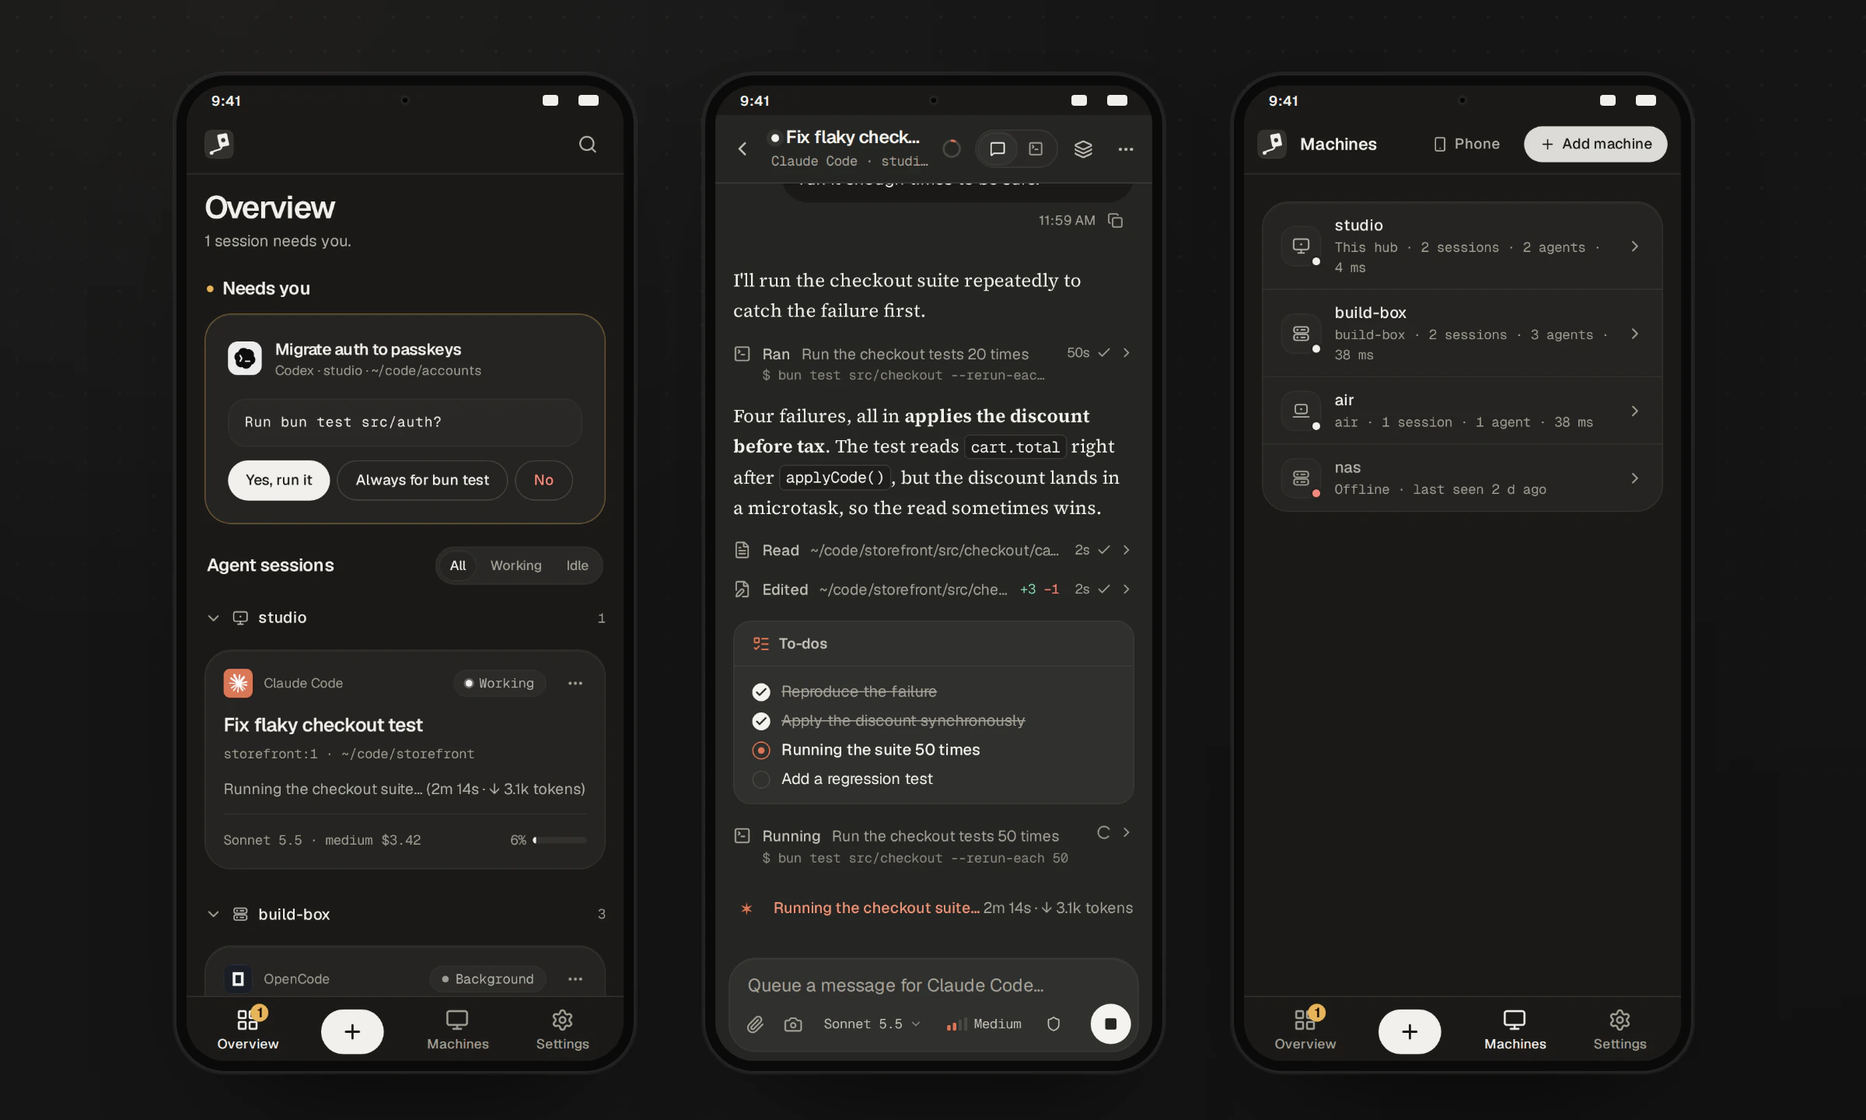
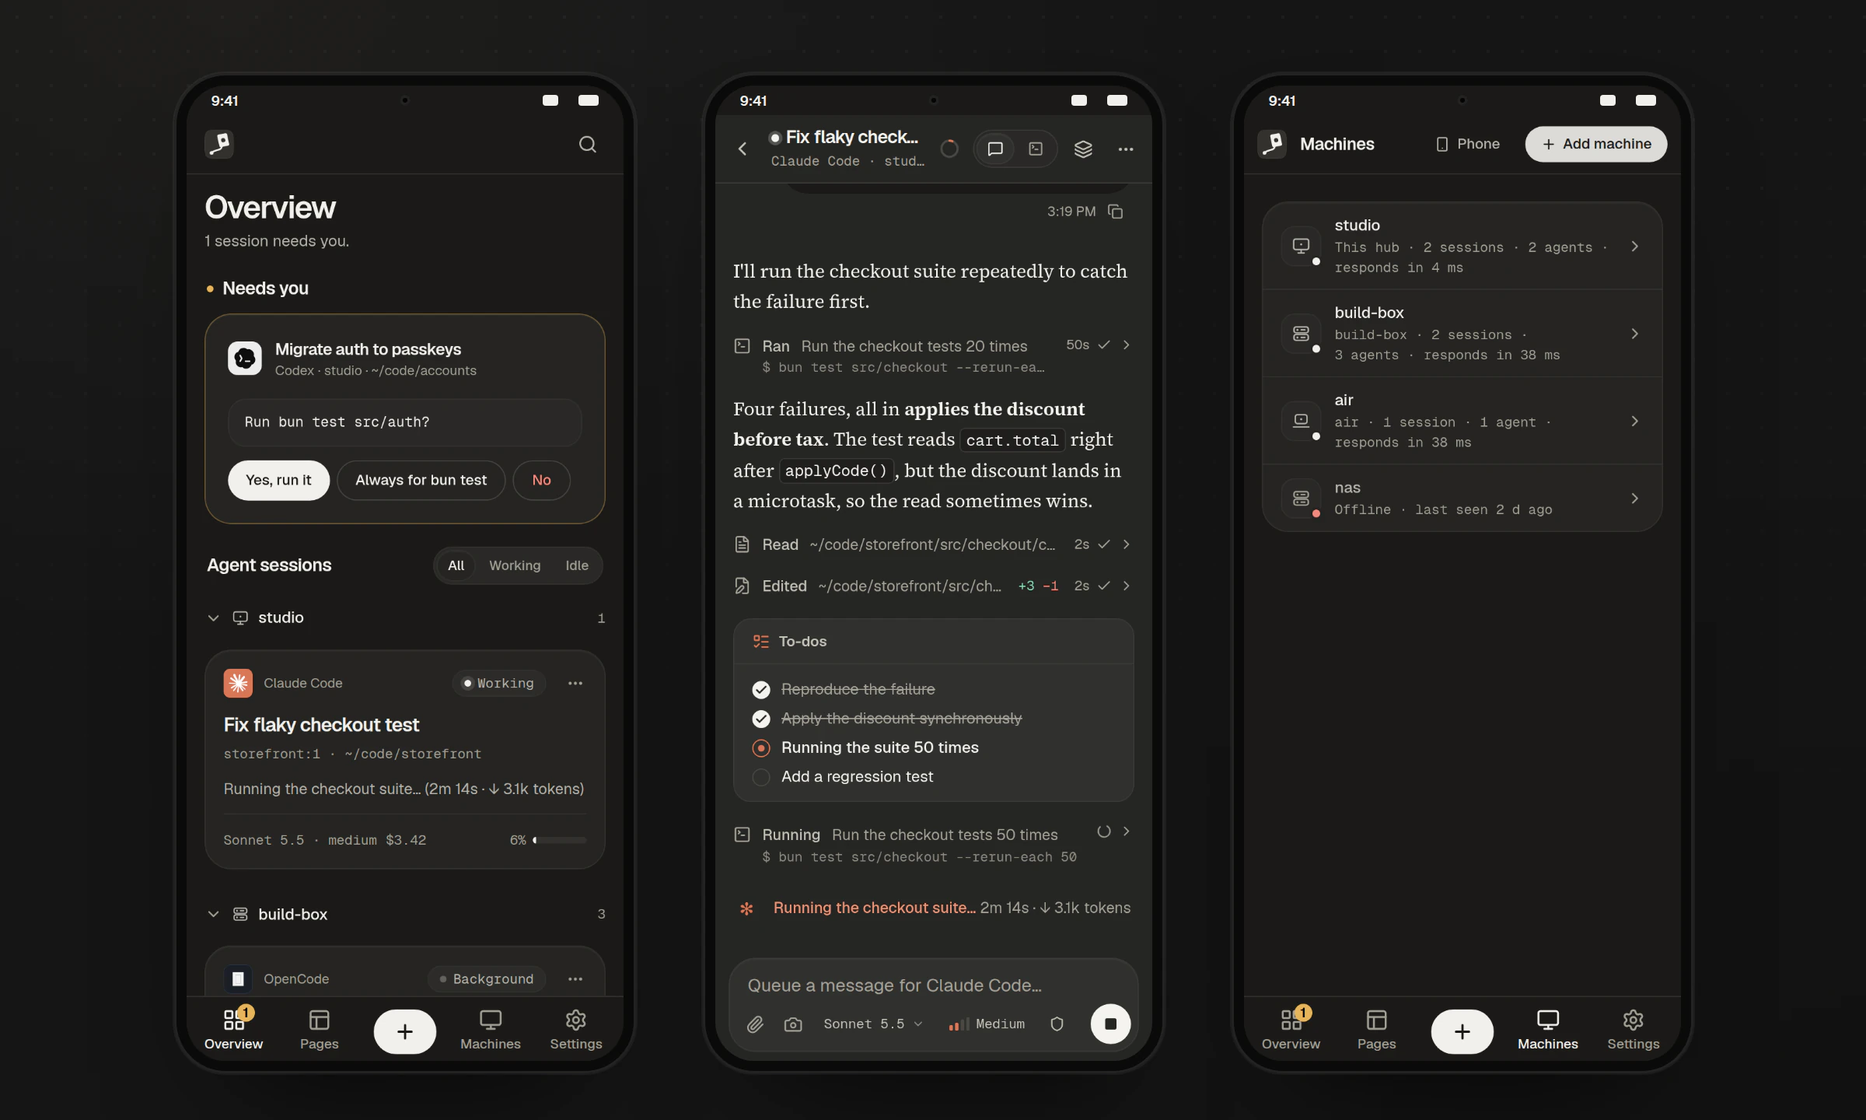
Bring the docs, README and site in line with what 0.20 does (#73)
A pass over every place that describes Inyon, checked against the code:

- Download sizes: about 4 MB on Windows, 10 to 13 MB elsewhere now that
  the Rust hub ships inside the binary.
- SECURITY.md covers signed downloads, the 0.20 plain-http rule and cert
  pin, companions, Pages and how to revoke a phone.
- CONTRIBUTING lists the Rust tests, conformance and the site build, and
  where the crates live.
- Docs pages: retry timings, the pkarr backoff, .internal names, typing
  through the paste buffer, INYON_DEBUG, the Android version.
- Old release notes rendered on the site rewrite the old domain to
  inyon.tech.
- The uploads Clean button uses the hub's own retention days instead of
  a fixed 7, and both hubs report it.
- Screenshots redrawn (the phones picture shows the Pages tab), link
  previews regenerated.

Review fixes: the uploads card is keyed by machine, CONTRIBUTING runs folder tests in subshells, SECURITY.md says where the certificate pin is checked, the security page lists every pre-0.20 plain-http name, and old-domain links with a query or fragment are rewritten.

diff --git a/apps/web/src/pages/Machines.tsx b/apps/web/src/pages/Machines.tsx
@@ -272,7 +272,7 @@ export function MachinePage() {
           {tab === 'sessions' && <SessionsTab host={host} onNew={() => setNewOpen(true)} />}
           {tab === 'setup' && <SetupPanel host={host} />}
           {tab === 'config' && <ConfigTab host={host} />}
-          {tab === 'uploads' && <UploadsCard host={host} />}
+          {tab === 'uploads' && <UploadsCard key={host.config.id} host={host} />}
           {tab === 'integration' && <IntegrationCard host={host} />}
         </div>
         <MachinePages host={host.config.id} />
@@ -436,6 +436,9 @@ function ConfigTab({ host }: { host: HostState }) {
   )
 }
 
+/** The age the clean button cleans: the hub's retention setting, which its count of expired files uses; 7 days when the hub doesn't say or keeps uploads forever. */
+export const cleanDays = (u: UploadUsage) => (u.days && u.days > 0 ? u.days : 7)
+
 export function UploadsCard({ host, compact }: { host: HostState; compact?: boolean }) {
   const [usage, setUsage] = useState<UploadUsage | null>(null)
   const [busy, setBusy] = useState<string | null>(null)
@@ -465,7 +468,7 @@ export function UploadsCard({ host, compact }: { host: HostState; compact?: bool
         <>
           <div className="mt-1 truncate font-mono text-[12px] text-fg-3">{usage.dir.replace(/^\/home\/[^/]+/, '~')}</div>
           <div className="mt-3 flex flex-wrap gap-2">
-            <Button size="sm" onClick={() => clean(7)} loading={busy === '7'} disabled={!usage.files}>Clean older than 7 days{usage.expired ? ` (${usage.expired})` : ''}</Button>
+            <Button size="sm" onClick={() => clean(cleanDays(usage))} loading={busy === String(cleanDays(usage))} disabled={!usage.files}>Clean older than {cleanDays(usage)} day{cleanDays(usage) === 1 ? '' : 's'}{usage.expired && usage.days ? ` (${usage.expired})` : ''}</Button>
             <Button size="sm" variant="danger" onClick={() => clean(0)} loading={busy === '0'} disabled={!usage.files}>Delete all</Button>
           </div>
         </>

diff --git a/site/build.test.ts b/site/build.test.ts
@@ -3,7 +3,7 @@ import { createHash } from "node:crypto";
 import { readFileSync } from "node:fs";
 import { join } from "node:path";
 import { stampInstaller } from "../apps/node/installers.ts";
-import { checkReleaseFile, mb, parseSums } from "./build.ts";
+import { checkReleaseFile, mb, oldSiteLinks, parseSums } from "./build.ts";
 
 // /download said the APK was 2.7 MB while Chrome said 2.88 MB: sizes are decimal, as browsers count
 test("sizes read as a browser shows them", () => {
@@ -57,4 +57,17 @@ test("the installers served at the root carry the sha256 of the list the site ch
   expect(() => stampInstaller("get.sh", sh, list)).toThrow("expected one empty LIST_SHA256 line, found 0");
   expect(() => stampInstaller("get.sh", "LIST_SHA256=\nLIST_SHA256=\n", list)).toThrow("found 2");
   expect(() => stampInstaller("get.ps1", node("get.ps1"), "not a sha")).toThrow("isn't a sha256");
+});
+
+// release notes from before 23 Oct 2026 link to inyon.abhashchakraborty.tech; the changelog shows inyon.tech
+test("old release notes link to the site's new address", () => {
+  expect(oldSiteLinks("see [Install](https://inyon.abhashchakraborty.tech/docs/install/#x) or https://inyon.abhashchakraborty.tech")).toBe(
+    "see [Install](https://inyon.tech/docs/install/#x) or https://inyon.tech",
+  );
+  expect(oldSiteLinks("`curl -fsSL https://inyon.abhashchakraborty.tech/get.sh | sh`")).toBe("`curl -fsSL https://inyon.tech/get.sh | sh`");
+  expect(oldSiteLinks("https://inyon.abhashchakraborty.tech?ref=release and https://inyon.abhashchakraborty.tech#install")).toBe(
+    "https://inyon.tech?ref=release and https://inyon.tech#install",
+  );
+  // a host that only starts the same stays as it is
+  expect(oldSiteLinks("https://inyon.abhashchakraborty.tech.example.com/")).toBe("https://inyon.abhashchakraborty.tech.example.com/");
 });

diff --git a/site/build.ts b/site/build.ts
@@ -65,7 +65,7 @@ interface Release {
 const HOME = {
   title: "Inyon: your coding agents, from your phone",
   description:
-    "Watch, answer and steer Claude Code, Codex, Gemini CLI, OpenCode and GitHub Copilot running in tmux on your own computers, from your phone or any browser.",
+    "Watch, answer and steer Claude Code, Codex, Gemini CLI, OpenCode, GitHub Copilot and Antigravity CLI running in tmux on your own computers, from your phone or any browser.",
 };
 const DOWNLOAD_DESCRIPTION =
   "Download Inyon for Android, Linux, macOS and Windows. Every file is checked against the release's SHA256SUMS.";
@@ -460,9 +460,12 @@ async function releases(): Promise<GhRelease[]> {
 }
 
 /** A release's notes as HTML, headings demoted to sit under its version. */
+/** Links in notes written before the move to inyon.tech point here directly instead of through the old address's redirect. */
+export const oldSiteLinks = (md: string) => md.replace(/https?:\/\/inyon\.abhashchakraborty\.tech(?=[/?#)\s"'>]|$)/g, ORIGIN);
+
 function notes(r: GhRelease): string {
   // GitHub's "Full Changelog" line is a bare URL; each release links to its page instead
-  const md = (r.body || "").replace(/^#+\s.*\n/, "").replace(/^\*\*Full Changelog\*\*:.*$/m, "");
+  const md = oldSiteLinks(r.body || "").replace(/^#+\s.*\n/, "").replace(/^\*\*Full Changelog\*\*:.*$/m, "");
   // without their ids the headings' # links would point nowhere, so they go too
   return render(md)
     .html.replace(/<h[23] id="[^"]*"><a class="anchor"[^>]*>#<\/a>/g, "<h4>")

diff --git a/apps/web/src/pages/UploadsClean.test.ts b/apps/web/src/pages/UploadsClean.test.ts
@@ -1,0 +1,22 @@
+import { expect, test } from 'bun:test'
+import { cleanDays } from './Machines.tsx'
+
+const usage = { bytes: 0, files: 4, expired: 2, dir: '/home/me/.inyon/uploads' }
+
+test('the clean button cleans the age the hub counted expired files with', () => {
+  expect(cleanDays({ ...usage, days: 1 })).toBe(1)
+  expect(cleanDays({ ...usage, days: 30 })).toBe(30)
+})
+
+test('a hub that keeps uploads forever, or predates the field, gets the old 7 days', () => {
+  expect(cleanDays({ ...usage, days: 0 })).toBe(7)
+  expect(cleanDays(usage)).toBe(7)
+})
+
+// the machine page stays mounted when you go to another machine; without a key the card kept the
+// last machine's numbers, and Clean used its days on the new one
+test('the uploads card starts fresh for each machine', async () => {
+  const src = await Bun.file(new URL('./Machines.tsx', import.meta.url)).text()
+  for (const use of src.match(/<UploadsCard\b[^>]*>/g) ?? []) expect(use).toContain('key={host.config.id}')
+  expect(src).toMatch(/<UploadsCard\b/)
+})

diff --git a/site/pages/home.html b/site/pages/home.html
@@ -120,6 +120,7 @@
       <li><b>Follow background work</b><span>Queued messages, subagents and background shells with live output and a real Stop.</span></li>
       <li><b>Get notified</b><span>When an agent needs you or finishes, and when a machine drops off or comes back.</span></li>
       <li><b>Open what agents build</b><span>Plans, mockups and progress boards your agents make show up under Pages, sandboxed, on your phone and desktop.</span></li>
+      <li><b>Pair a companion app</b><span>Apps like Legato see your sessions, answer a question and send an instruction, with four permissions and nothing more.</span></li>
       <li><b>Set up machines from the app</b><span>It checks for tmux and each agent, installs what's missing and opens sign-in.</span></li>
     </ul>
     <div class="agents" aria-label="Supported agents">

diff --git a/apps/hub/src/features/features.ts b/apps/hub/src/features/features.ts
@@ -114,7 +114,8 @@ export async function uploadUsage(hostId: string) {
   const old = days > 0 ? `$(find ${shq(dir)} -type f -mtime +${days} | wc -l)` : '0'
   const r = await host.exec(`[ -d ${shq(dir)} ] || { echo "0 0 0"; exit 0; }; echo "$(du -sk ${shq(dir)} | cut -f1) $(find ${shq(dir)} -type f | wc -l) ${old}"`)
   const [kb, files, expired] = r.stdout.trim().split(/\s+/).map(Number)
-  return { bytes: (kb || 0) * 1024, files: files || 0, expired: expired || 0, dir }
+  // days: the retention setting `expired` counts with, so the app's clean button cleans the same files
+  return { bytes: (kb || 0) * 1024, files: files || 0, expired: expired || 0, dir, days }
 }
 
 /**

diff --git a/apps/web/src/lib/api.ts b/apps/web/src/lib/api.ts
@@ -96,6 +96,8 @@ export interface UploadUsage {
   files: number
   expired: number
   dir: string
+  /** the retention setting `expired` counts with (from 0.20.2; older hubs leave it out) */
+  days?: number
 }
 
 export interface ConfigFile {

diff --git a/crates/inyon-core/src/features/features.rs b/crates/inyon-core/src/features/features.rs
@@ -204,6 +204,8 @@ pub struct UploadUsage {
     pub files: Num,
     pub expired: Num,
     pub dir: String,
+    /// The retention setting `expired` counts with, so the app's clean button cleans the same files
+    pub days: Num,
 }
 
 /// `Number(x) || 0`
@@ -224,7 +226,7 @@ pub async fn upload_usage(host_id: &str) -> HubResult<UploadUsage> {
     let r = host.run(&format!("[ -d {d} ] || {{ echo \"0 0 0\"; exit 0; }}; echo \"$(du -sk {d} | cut -f1) $(find {d} -type f | wc -l) {old}\"")).await?;
     let nums: Vec<f64> = re!(r"\s+").split(r.stdout.jtrim()).map(to_number).collect();
     let at = |i: usize| or_zero(nums.get(i).copied().unwrap_or(f64::NAN));
-    Ok(UploadUsage { bytes: Num(at(0) * 1024.0), files: Num(at(1)), expired: Num(at(2)), dir })
+    Ok(UploadUsage { bytes: Num(at(0) * 1024.0), files: Num(at(1)), expired: Num(at(2)), dir, days: Num(days) })
 }
 
 /// The shell that tidies a machine's uploads: files older than `days` (none when 0, all when -1),

diff --git a/crates/inyon-core/src/features/features_tests.rs b/crates/inyon-core/src/features/features_tests.rs
@@ -470,7 +470,7 @@ fn upload_usage_reads_sizes_counts_and_expired_files() {
         connected("u", "/home/me", json!([]));
         let f = crate::test_support::fake::Fake::install(|_, _, _| crate::test_support::fake::ok("12 3 1\n"));
         let u = upload_usage("u").await.unwrap();
-        assert_eq!(serde_json::to_value(&u).unwrap(), json!({ "bytes": 12288, "files": 3, "expired": 1, "dir": "/home/me/.inyon/uploads" }));
+        assert_eq!(serde_json::to_value(&u).unwrap(), json!({ "bytes": 12288, "files": 3, "expired": 1, "dir": "/home/me/.inyon/uploads", "days": 7 }));
         assert_eq!(
             f.cmds(),
             ["[ -d '/home/me/.inyon/uploads' ] || { echo \"0 0 0\"; exit 0; }; echo \"$(du -sk '/home/me/.inyon/uploads' | cut -f1) $(find '/home/me/.inyon/uploads' -type f | wc -l) $(find '/home/me/.inyon/uploads' -type f -mtime +7 | wc -l)\""]

diff --git a/SECURITY.md b/SECURITY.md
@@ -1,13 +1,16 @@
 # Security
 
 Inyon gives whoever signs in to the hub a shell on every connected machine, as the user the
-agents run as. Treat the hub like an SSH jump host.
+agents run as. Treat the hub like an SSH jump host. The full account of how each connection is
+protected is in [Security](https://inyon.tech/docs/security/) on the website; this page is the
+summary.
 
 ## How it is meant to be deployed
 
 - **Keep the hub private.** It binds to `127.0.0.1` by default. Reach it over a private network
-  (Tailscale, NetBird, WireGuard, your LAN) or put it behind HTTPS with a reverse proxy. Don't
-  expose plain HTTP to the internet.
+  (Tailscale, NetBird, ZeroTier, WireGuard) or your LAN, where from 0.20 setup gives it HTTPS on a
+  certificate of its own, or put it behind HTTPS with a reverse proxy. Don't expose plain HTTP to
+  the internet.
 - **One strong password.** The first visit creates it, with the setup code the hub prints. The hub
   stores only a scrypt hash. Sign-in attempts are rate limited per address and in total. Sessions
   are signed, HttpOnly cookies, and the API only accepts changes from the hub's own origin.
@@ -17,8 +20,19 @@ agents run as. Treat the hub like an SSH jump host.
 - **Laptops connect out, not in.** Machines running `inyon` open an outbound connection
   to the hub. Nothing on them listens for connections, so you never open SSH on a laptop. Each
   machine gets its own random token, the hub stores only its SHA-256, and removing the machine
-  revokes it. A token no machine has used stops working after a day. `inyon` refuses to send its token over plain HTTP unless the hub is on a
-  private address.
+  revokes it. A token no machine has used stops working after a day. `inyon` refuses to send its token over plain HTTP unless the hub is on
+  the same machine or on a Tailscale or NetBird address (from 0.20). A hub on a certificate it made
+  itself is pinned by the SHA-256 in its **Add a machine** command on Linux and macOS. The
+  Windows command and the Android app can't check that certificate yet, so they reach such a hub
+  through a VPN address or a certificate the device trusts.
+- **Downloads are signed.** Releases, the one-line installers and the machine updates a hub hands
+  out are checked against Inyon's signed release list for the version asked for, and an older
+  signed list is refused.
+- **Typed text stays off command lines.** Messages, drafts and pasted API keys reach tmux through
+  a private file, so other users on the machine can't read them in the process list.
+- **Companion apps and Pages get less than you do.** A companion app such as Legato pairs with a
+  one-time code and sees only its four permissions; removing it cuts it off at once. A page an agent
+  made runs sandboxed under a link that lasts 12 hours and can't see your sign-in or call the hub.
 - **Servers can use SSH.** The hub uses your existing `ssh` config, keys and known hosts. It never
   stores SSH keys.
 
@@ -39,7 +53,7 @@ with a terminal app that has your keys.
 A paired phone gets a shell on the laptop as the user running `inyon`, the same as SSH.
 
 - **The pairing code is the secret.** It holds a one-time code that works for 10 minutes and for
-  one phone. Don't share a screenshot of it. Pairing again or `inyon forget` revokes a phone.
+  one phone. Don't share a screenshot of it. `inyon forget` revokes a phone.
 - **End-to-end encrypted.** Phone and laptop run Noise IK (X25519, ChaCha20-Poly1305, SHA-256).
   The phone already knows the laptop's key from the code, so a tunnel, relay or network in between
   can't read or change the traffic, or stand in for the laptop. The laptop only lets in phone keys

diff --git a/CONTRIBUTING.md b/CONTRIBUTING.md
@@ -32,11 +32,14 @@ no npm or pnpm step.
 
 ```sh
 bun run typecheck
-cd apps/hub && bun test
-cd apps/web && bun test
-cd apps/node && bun test
-cd packages/link && bun test
-cd apps/web && bun run build && bun run e2e   # layout at phone widths, needs Playwright's Chromium
+(cd apps/hub && bun test)
+(cd apps/web && bun test)
+(cd apps/node && bun test)
+(cd packages/link && bun test)
+(cd apps/web && bun run build && bun run e2e)   # layout at phone widths, needs Playwright's Chromium
+cargo test --workspace            # the inyon command and the Rust crates (or bun run cli:test)
+bun conformance/run.ts            # both hubs against the recorded scenarios
+bun site/build.ts --offline       # the website and docs; fails on a broken link
 ```
 
 The screen parser (`apps/hub/src/claude/screen.ts`) is tested against real captures from the
@@ -52,12 +55,20 @@ logs its size after each one to `window.log`, the only file it writes.
 ## Where things live
 
 ```
-apps/hub           Bun server: machines, tmux, agent readers, API, WebSocket
+apps/cli           the inyon command (Rust): setup, status, pairing, services, updates, the Windows window
+apps/hub           the Bun hub: machines, tmux, agent readers, API, WebSocket
                    (src/phone runs the same core inside the Android app)
+apps/node          inyon-engine, the Bun program a hub runs on (and INYON_LEGACY_ENGINE=1)
 apps/web           React + Vite app, also served by the hub
-apps/node          the inyon program: the phone link, the hub connection and the hub itself
-apps/mobile        Capacitor shell for Android and iOS; scripts/icons.ts renders every icon
+apps/mobile        Capacitor shell for Android (and an unshipped iOS project); scripts/icons.ts renders every icon
+crates/            the Rust side: inyon-core (readers, machines), inyon-hub (the opt-in Rust hub),
+                   inyon-engine and inyon-link (the phone link), inyon-backends, inyon-protocol
 packages/protocol  types and the agent registry shared by hub and app
+packages/link      the phone link in TypeScript (Noise, pkarr, relay)
+conformance/       recorded scenarios both hubs must answer the same way
+site/              the website and docs at inyon.tech
+npm/               the npm launcher and per-platform packages
+skills/            agent skills shipped with each release (Blueprint)
 ```
 
 The pictures in the README are the real app fed a made-up set of machines: `bun run build` in
@@ -68,7 +79,8 @@ The pictures in the README are the real app fed a made-up set of machines: `bun 
 Most of what Inyon knows about an agent lives in one place: `packages/protocol/src/agents.ts`
 (how to detect it, its colours, commands, models and config files). A chat view also needs a
 reader that turns the agent's session files or API into chat items; see `apps/hub/src/agents/`
-for Codex, Gemini CLI and OpenCode.
+and its Rust twin `crates/inyon-core/src/agents/` for Codex, Gemini CLI, OpenCode, Copilot and
+Antigravity. Both hubs need the reader.
 
 ## Look and feel
 

diff --git a/site/docs/install.md b/site/docs/install.md
@@ -3,7 +3,7 @@ title: Install
 description: How to install Inyon with the one-line installers or npm, where it lives on a computer, and how to update or remove it.
 ---
 
-Every computer that runs agents for you gets one program, `inyon` (about 3.5 MB, written in Rust). It sets things up, shows status, keeps everything updated, and from 0.19 does the work behind it too: the link to your phone and the connection to a hub. Only a [hub](hub.md) also gets `inyon-engine`, the larger program built with Bun that the hub runs on. Before 0.19 every computer had both. You only ever type `inyon`.
+Every computer that runs agents for you gets one program, `inyon` (written in Rust; about 4 MB on Windows, 10 to 13 MB on Linux and macOS, where from 0.20 it also holds the Rust hub). It sets things up, shows status, keeps everything updated, and from 0.19 does the work behind it too: the link to your phone and the connection to a hub. Only a [hub](hub.md) also gets `inyon-engine`, the larger program built with Bun that the hub runs on. Before 0.19 every computer had both. You only ever type `inyon`.
 
 ## The one-line installers
 
@@ -188,7 +188,7 @@ From 0.20.1 the window is the control panel for this computer:
 
 On a computer that runs the hub, the pairing card shows the hub's address and how many machines joined, with **Open the hub** and **Copy address**.
 
-The window has one size for each display scale. It opens in the middle of the screen whose tray you clicked, inside the area the taskbar leaves free. Nothing it shows changes its size: a refresh, a pairing code or a new phone only changes what's inside. It takes a new size only when the scale changes or you move it to a screen with another scale. A screen too small for it gets a narrower layout with three tabs, Pair, Phones and This computer. It follows the Windows app theme, light or dark, title bar included. Tab moves between the buttons and Esc closes it. In 0.19 the window grew and shrank with every refresh.
+The window has one size for each display scale. It opens in the middle of the screen whose tray you clicked, inside the area the taskbar leaves free. Nothing it shows changes its size: a refresh, a pairing code or a new phone only changes what's inside. It takes a new size only when the scale changes or you move it to a screen with another scale. A screen too small for it gets a narrower layout with three tabs, Pair, Phones and This computer. It follows the Windows app theme, light or dark, title bar included. Tab moves between the buttons and Esc closes it. Before 0.20.1 the window grew and shrank with every refresh.
 
 From 0.17.2 setup also lists Inyon under **Settings → Apps → Installed apps**, with its version, and `inyon update` keeps the version current. **Uninstall** there runs `inyon uninstall --purge` in a window of its own, which stays open until you press Enter.
 
